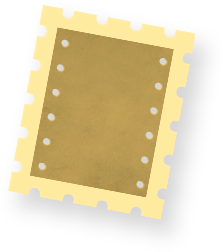
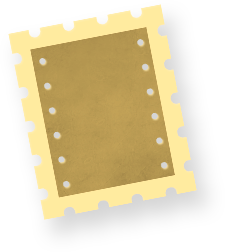
Cap_2_concluido

Changed region(s): [[0.0312, 0.0, 0.9062, 0.8889]]

diff --git a/cap2.html b/cap2.html
@@ -45,54 +45,98 @@
         <div id="box_anim"></div>
         <div id="bt_voltar" onclick="voltar()"></div>
         
+        <div class="img" id="img_1"></div>
+        <div class="img" id="img_2"></div>
+        
         <div class="subtitulo">capítulo 2</div>
         <div class="titulo">o que me bloqueia?</div>
         
-        <div class="img" id="img_1"></div>
-        <div class="img" id="img_2"></div>
-        <div class="img" id="img_3"></div>
         
         <div class="texto" id="paragrafos">
-            Uma forma diferente de pensar e de se expressar? Um processo intuitivo? Uma ferramenta para resolução de problemas? Uma forma de fugir do padrão; de criar algo novo? Seria uma forma de sonhar ou uma ferramenta para criação de ideias? Afinal de contas, o que - de fato - é a <strong>criatividade</strong>?
-            <br><br>
-            Como diria Potyguara Bardo: "eu não sou nada, mas eu sou tudo isso aqui". A verdade é que a criatividade é um conceito bastante complexo e, portanto, difícil de ser definido. Diferentes pesquisadores e profissionais da área trarão definições diferentes deste conceito.
-            <br><br>
-            Da mesma forma, a criatividade possui um olhar particular de acordo com o indivíduo que a descreve, pois cada um possui um histórico de vivências diferentes, que podem contribuir de maneira ímpar para a evolução do seu pensamento criativo.
-            <br><br>
-            Vale lembrar que cada pessoa também possui sua própria maneira de criar; cada ser possui uma forma única de se inspirar e produzir coisas novas. Eu, por exemplo, vejo a criatividade como uma <strong>"materializadora de ideias"</strong>; é ao mesmo tempo uma fonte de recursos, um método e uma ferramenta; algo que me permite criar tudo aquilo que ainda estava apenas em um pensamento, em uma necessidade ou anseio.
+            Cada pessoa tem sua própria forma de criar e se sentir criativo. Algumas pessoas precisam ficar em silêncio, enquanto outras precisam estar em um ambiente agitado. Algumas precisam de prazos, enquanto outras se sentem completamente travadas se precisam entregar algo sob pressão. No meio de tantas maneiras, qual a minha forma de criar?
             <br><br>
             
-            <h1>Pensar fora da caixa</h1>
-            O <strong>senso comum</strong> é um dos grandes propulsores do pensamento-não-criativo. Apenas replicar o que outra pessoa pensou, te disse ou te mostrou não é pensar; é um puro "CTRL+C, CTRL+V".
+            <h1>O que desperta minha criatividade:</h1>
+            <ul>
+                <li>Em primeiro lugar, preciso que o ambiente ao meu redor esteja <strong>limpo e organizado</strong>. Do contrário, me sinto sufocado e com aquele sentimento de "preciso varrer esse chão A-G-O-R-A!".</li>
+                <li>Ter uma <strong>música ligada</strong> ajuda muito. Dependendo do meu humor e do que precisa ser feito, opto por colocar uma música mais agitada ou mais lenta. Na dúvida, Lo-Fi sempre funciona haha.</li>
+                <li>Acender um <strong>incenso</strong> no ambiente desperta meu lado mais intuitivo e criacionista. Prefiro aromas de canela e de alecrim para aflorar a criatividade e ajudar na concentração.</li>
+                <li>Se as ideias não estão vindo, gosto de <strong>dançar</strong>, sozinho mesmo, no meio do ambiente onde estou. Acredito que sou uma pessoa bastante expansiva. Me mexer me ajuda a fazer as ideias fluírem.</li>
+            </ul> 
+            <br><br>
+            <div class="img_linha">
+                <img src="img/cap2_img_1.jpg" width="500px">
+                Meu processo criativo em uma imagem.<br>Fonte: @digimundomarketing
+            </div>
             
             <br><br>
-            No entanto, parando para refletir, se cada um de nós possui uma forma individual de criar e imaginar as coisas, como poderia existir uma <i>caixa para a criatividade</i>? Se eu digo que "penso fora da caixa" (jargão muito utilizado hoje em dia), eu estou assumindo que existe uma caixa que padroniza a forma como as pessoas imaginam e criam as coisas. Entretanto, como foi relatado nos parágrafos anteriores, ninguém pensa exatamente da mesma forma que o outro. 
+            <h1>E quando a criatividade não vem?</h1>
+            Embora o processo criativo seja diferente para cada pessoa, o <strong>bloqueio criativo</strong> é algo que aflinge a todos. É quase certo que, em um momento ou outro da vida, todo mundo se deparará com um destes "brancos", que faz com que todas as ideias sumam - ou pareçam ser fracas demais.
             <br><br>
-            Talvez seja a hora de deixar essa história de caixas para trás.
-            <br><br>
+            Existem vários tipos de bloqueios que podem ocorrer:
+            <ul>
+                <li><strong>Bloqueio de percepção:</strong> quando fazemos tantas vezes a mesma coisa que acabamos entrando em um "piloto automático". Com isso, paramos de prestar atenção - verdadeiramente - no que estamos fazendo. Por conta disso, podemos acabar deixando passar muita coisa. Por exemplo: você passa tantas vezes pelo mesmo lugar que acaba nem prestando mais atenção no caminho que está seguindo, nas pessoas por quem você passa, nem na nota de dinheiro que estava perdida no chão...</li>
+                <li><strong>Bloqueio emocional:</strong> este tipo de bloqueio acontece quando a pessoa se depara com algum "gatilho", que desperta um sentimento negativo nela, por conta de alguma experiência passada. Por exemplo: seu avô adoeceu de cancêr de pulmão e você precisa fazer uma propaganda para uma marca de cigarros.</li>
+                <li><strong>Bloqueio cultural:</strong> quando sua cultura possui crenças limitantes, que te impedem de pensar além. Tabus e preconceitos são exemplos de bloqueios culturais.</li>
+                <li><strong>Bloqueio ambiental:</strong> se você está tentando criar algo em um ambiente que não está em sintonia com você, é muito provável que você se sinta bloqueado. Trabalhar em um ambiente desorganizado, ouvindo uma música que você não gosta, em um local que você não se sente confortável, é praticamente impossível.</li>
+                <li><strong>Bloqueio intelectual:</strong> trata-se daquele momento em que você não possui conhecimento suficiente sobre um assunto e, por conta disso, não consegue compreender o que precisa ser feito.</li>
+            </ul>
             
-            <h1>Novas primeiras vezes</h1>
-            <i>"Há quanto tempo você não faz algo pela primeira vez?"</i>
-            <br>Essa pergunta me fez refletir bastante sobre o modo como estou vivendo atualmente. Minha rotina diária costuma ser bastante cheia de afazeres: estudo pela manhã, trabalho à tarde e, à noite, faço os trabalhos da faculdade, arrumo a casa e dou ração para o gato. E esse padrão se repete dia após dia. E de novo, e de novo. No meio desse loop infindável, aqueles pequenos prazeres de se fazer algo novo acabam não tendo seu lugar na agenda.
+            <br>
+            <h1>Bloqueei. E agora?</h1>
+            Calma, respira, não pira. O primeiro passo é descobrir o que está te bloqueando. Se é a música alta, desligue. Se os vizinhos estiverem brigando, ligue uma música. Se você não estiver entendendo o que precisa ser feito, faça como o ET Bilu e busque conhecimento.
             <br><br>
-            Contudo, as vezes essas novas tentativas acabam sendo deixadas de lado por outros motivos. Já aconteceu inúmeras vezes: eu começo uma coisa nova, me interesso, tento colocar em prática e... desisto. Não porque eu não estivesse realmente afim de fazer aquilo, mas por <strong>insegurança</strong>; por perceber que já tem gente que faz aquilo muito melhor que eu - e parece que eu nunca vou chegar aos pés dessas pessoas.
+            O mais importante é você entender que está tudo bem se sentir bloqueado - você só não pode NÃO fazer nada a respeito disso -. Depois de ter identificado a origem do bloqueio, você deve resolva-a, desconstrua-a.
             <br><br>
-            Sei que é uma cilada, mas é difícil sair dela.
-            <br><br>
+            <i>Ah, não julgar as suas ideias também é um bom começo para resolver os seus bloqueios.</i>
             
-            <h1>O louco</h1>
-            Durante as férias de verão, comecei a estudar algo que já tinha vontade de aprender há tempos: TAROT. Sim, Tarot. Não como arte divinatória, mas como uma ferramenta terapêutica de autoconhecimento. No tarot, cada uma das 22 cartas dos "Arcanos Maiores" representa um arquétipo diferente, pelo qual passamos ao longo da nossa vida. Uma das cartas que considero mais bonitas é justamente a primeira carta do baralho: <strong>o Louco</strong>.
             <br><br>
-            O Louco é o arquétipo da nossa <strong>criança interior</strong>. Aquela criança curiosa, que se pergunta o porquê de tudo e que não tem medo de se lançar em uma nova aventura. Se ele vê uma borboleta azul cruzando o seu caminho, ele a segue até perdê-la de vista. Ele é inocente e cheio de motivação. Sorri por pequenas coisas e não tem medo de demonstrar o que sente.
+            <h1>Um empurrãozinho na criatividade:</h1>
+            <ul>
+                <li>Seja curioso;</li>
+                <li>Encare os desafios de frente;</li>
+                <li>Pratique o descontentamento construtivo;</li>
+                <li>Esteja aberto para o novo;</li>
+                <li>Se posicione como aprendiz das situações;</li>
+                <li>Evite julgamentos;</li>
+                <li>Seja otimista e perseverante;</li>
+                <li>Olhe o cotidiano com outros olhos.</li>
+            </ul>
             <br><br>
-            Apesar da ingenuidade do Louco poder acabar levando-o a cair em maus caminhos (sem querer), eu acredito que todos precisamos da essência deste arquétipo em nossas vidas. Quando sentirmos medo de fazer algo, devemos ir com medo mesmo, sem pensar no que os outros vão falar. E mais importante, precisamos lembrar que todos aqueles que estão lá na frente, colhendo os frutos do seu trabalho, um dia também já foram o Louco que estava saindo em uma nova jornada.
+            <div class="img_linha">
+                <img src="img/linha_div.png" width="500px">
+            </div>
+            
             <br><br>
-            Nesta semana, decidi abraçar a essência desta carta e me permitir voltar a desenhar. Mesmo que o resultado final não tenha ficado sensacional; que tenham coisas a melhorar nas minhas técnicas de criação; mesmo que nem todos tenham gostado, o importante mesmo é que eu me senti bem fazendo isso. E, <strong>pela primeira vez</strong>, eu tive orgulho do desenho que fiz (é esse menininho aqui, na esquerda).
+            <h1>Atividade:</h1>
+            <i><a href="https://www.youtube.com/watch?v=CEhT2QlRBMo" target="_blank">https://www.youtube.com/watch?v=CEhT2QlRBMo</a> - escolher duas pessoas do vídeo e criar uma história, contando como se conheceram e o futuro delas.</i>
+            
             <br><br>
-            Embora a maior parte dos decks de tarot retratem o louco como um homem adulto ou um bobo da corte, a minha representação do Louco é justamente a da minha criança interior - as vezes adormecida, as vezes correndo atrás de borboletas.
+            <div class="img_linha">
+                <img src="img/cap2_img_4.png" width="500px">
+                <strong>"O REPÓRTER E A DONA DA FESTA"</strong>
+            </div>
+            <br>
+            "Em meio à pandemia de Covid-19, com mais de 1000 mortes por dia no país, existem pessoas que simplesmente não ligam e optam por se aglomerar. O motivo? Nós realmente não sabemos. Nossa equipe acaba de flagrar uma festa clandestina em bairro nobre da capital gaúcha." - diz o repórter, em frente ao local da festa.
+            <br>O repórter bate à porta do local, mas ninguém atende. Nova tentativa... mas sem resposta.
+            <br>"Aparentemente, não estão querendo conversar conosco." - ele completa.
+            <br>Ou, talvez, só não tenham ouvido, por conta da música extremamente alta.
+            <br>É então que, por suor à camisa, o repórter resolve adentrar a festa clandestina, clandestinamente. Ao entrar no recinto, a visão que tem é caótica: todos os convidados estão colados, sem máscara. Alguns bebendo, outros se beijando, outros dançando próximos e sem proteção alguma.
+            <br>Eis que o repórter encontra a dona da festa:
+            <br>"Senhora, a senhora é a responsável por tudo isso?"
+            <br>"Sou eu sim!" - ela responde - "Como eu posso te ajudar?" - perguntou-lhe, oferecendo uma taça de bebida.
+            <br>Para não fazer a desfeita, o repórter aceita gentilmente o drink. 
+            <br>Logo após, a equipe - que o aguardava do lado de fora - perdeu completamente o contato com o repórter.
+            <br><br>
+            Entrando de mansinho, o câmera man consegue filmar de relance o repórter sendo levado para algum canto da festa. Não sabendo o que estava acontecendo, a equipe de TV resolve acionar a polícia.
+            <br><br>
+            <div class="img_linha">
+                <img src="img/cap2_img_5.gif" width="300px">
+                <br>Agora, resta saber se o repórter sairá dessa como inocente.
+            </div>
         </div>
         
-        <div class="texto" id="data_cap">27/02/2021</div>
+        <div class="texto" id="data_cap">06/03/2021</div>
     </body>
 </html>
 

diff --git a/css/cap2.css b/css/cap2.css
@@ -96,34 +96,36 @@ html, body{
     background-image: url(../img/fechar_on.png);
 }
 
+.img_linha {
+    position: relative;
+    margin-left: auto;
+    margin-right: auto;
+    width: 500px;
+    text-align: center;
+}
+
 .img {
     background-size: contain;
     background-repeat: no-repeat;
     background-position: center;
     
-    width: 350px;
     height: 400px;
     
     position: absolute;
 }
 
 #img_1 {
-    background-image: url(../img/cap1_img_1.png);
+    background-image: url(../img/cap2_img_2.png);
     
-    top: 850px;
-    right: calc(50vw - 350px - 350px - 30px);
+    width: 250px;
+    top: 1550px;
+    left: calc(50vw - 350px - 250px - 0px);
 }
 
 #img_2 {
-    background-image: url(../img/cap1_img_2.png);
+    background-image: url(../img/cap2_img_3.png);
     
-    top: 1850px;
-    left: calc(50vw - 350px - 350px - 30px);
-}
-
-#img_3 {
-    background-image: url(../img/cap1_img_3.png);
-    
-    top: 250px;
-    left: calc(50vw - 350px - 350px - 30px);
+    width: 250px;
+    top: 2250px;
+    right: calc(50vw - 350px - 250px - 30px);
 }

diff --git a/css/index.css b/css/index.css
@@ -275,7 +275,7 @@ html, body{
 }
 
 #post_2 .img{
-    background-image: url(../img/selo_vazio.png);
+    background-image: url(../img/selo_2.png);
 }
 
 #post_3{
